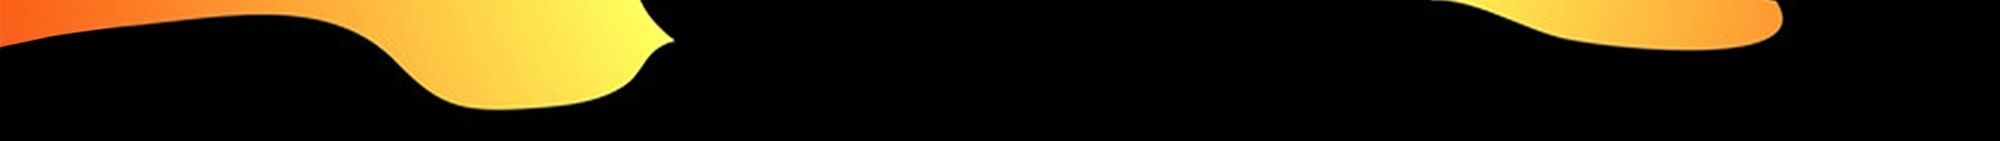
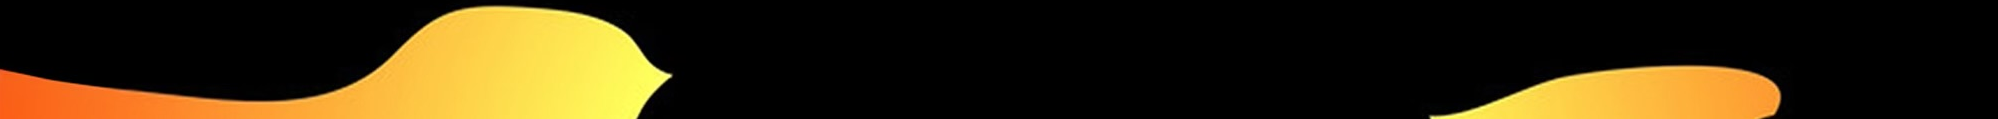
brk footer

Changed region(s): [[0.0, 0.0, 0.3413, 1.0], [0.7137, 0.5294, 0.8999, 1.0], [0.7137, 0.0, 0.8999, 0.3782]]

diff --git a/src/DTGBot/frontend/static/style.css b/src/DTGBot/frontend/static/style.css
@@ -278,8 +278,8 @@ header {
 }
 
 .ep-notes {
-    /*line-height: 1.6;*/
-    font-size: var(--fs-200);
+    line-height: 1.8;
+    font-size: var(--fs-300);
     display: -webkit-box;
     -webkit-line-clamp: 10;
     -webkit-box-orient: vertical;
@@ -291,7 +291,6 @@ header {
         padding-bottom: .5rem;
     }
 
-    /*@media (min-width: var(--breakpoint-lg)){*/
 
 }
 
@@ -329,13 +328,13 @@ header {
     font-size: var(--fs-100);
 }
 
-.guru-container:hover,
-.guru-container:focus {
-    color: white;
-}
+/*.guru-container:hover,*/
+/*.guru-container:focus {*/
+/*    color: var(--clr-5);*/
+/*}*/
 
-.guru-content {
-}
+/*.guru-content {*/
+/*}*/
 
 .tag-container {
     display: flex;
@@ -344,10 +343,10 @@ header {
     margin-top: auto;
     /*align-self: end;*/
 
-    :hover,
-    :focus {
-        color: var(--clr-3);
-    }
+    /*:hover,*/
+    /*:focus {*/
+    /*    color: var(--clr-3);*/
+    /*}*/
 }
 
 .card-tag {
@@ -495,26 +494,24 @@ a span {
 }
 
 footer {
-    bottom: 0;
-    height: 4rem;
-    /*height: 100%;*/
-    width: 100%;
-    /*padding-top: var(--margin-edge);*/
+    padding-top:3rem;
+    background-size: contain;
+    background-repeat: no-repeat;
 
-    > ul {
+    position: sticky;
+
+    ;
+
+    /*@media (min-width: 60rem) {*/
+    /*    position: sticky;*/
+    /*}*/
+    bottom: 0;
+    /*height: 4rem;*/
+
+    ul {
         margin-left: 50%;
         display: flex;
         gap: 1rem;
         flex-direction: row;
-        /*position: relative;*/
-        /*align-items: center;*/
-        /*justify-content: space-around;*/
-
-        > li {
-            /*flex-basis: 100%;*/
-            /*flex: 1;*/
-            /*color:red;*/
-            /*flex:1;*/
-        }
     }
 }

diff --git a/src/DTGBot/frontend/templates/base.html b/src/DTGBot/frontend/templates/base.html
@@ -30,6 +30,7 @@
 </main>
 
 <footer style="background-image: url('{{ url_for('img', path='/footer.png') }}');">
+{#    <div class="footer-container">#}
     <ul>
         <li class="foot-item">
             <a href="https://www.patreon.com/DecodingTheGurus/posts">patreon</a>
@@ -41,6 +42,7 @@
             <a href="https://www.reddit.com/r/DecodingTheGurus/">reddit</a>
         </li>
     </ul>
+{#    </div>#}
 </footer>
 </body>
 </html>
